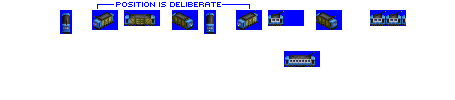
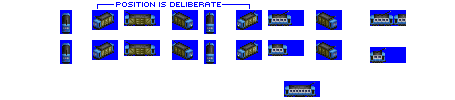
Change: WIP on pax trams

diff --git a/src/vehicles/ladycross.py b/src/vehicles/ladycross.py
@@ -12,13 +12,14 @@ consist = PaxHauler(id = 'ladycross',
 
 consist.add_unit(weight = 6,
                 capacity = 0,
-                vehicle_length = 3,
+                vehicle_length = 4,
                 effect_spawn_model = 'EFFECT_SPAWN_MODEL_STEAM',
                 effects = ['EFFECT_SPRITE_STEAM, -2, 0, 14'])
 
 consist.add_unit(weight = 6,
-                capacity = 80,
-                vehicle_length = 6)
+                capacity = 20,
+                vehicle_length = 4,
+                repeat = 3)
 
 consist.add_model_variant(intro_date=0,
                        end_date=global_constants.max_game_date,

diff --git a/src/vehicles/fairlop.py b/src/vehicles/fairlop.py
@@ -12,9 +12,13 @@ consist = PaxHauler(id = 'fairlop',
 
 consist.add_unit(weight = 12,
                 capacity = 20,
-                vehicle_length = 4,
-                effects = ['EFFECT_SPRITE_ELECTRIC, 0, 0, 12'],
-                repeat = 4)
+                vehicle_length = 6,
+                effects = ['EFFECT_SPRITE_ELECTRIC, 0, 0, 12'])
+
+consist.add_unit(weight = 12,
+                capacity = 20,
+                vehicle_length = 5,
+                repeat = 2)
 
 consist.add_model_variant(intro_date=0,
                        end_date=global_constants.max_game_date,

diff --git a/src/vehicles/newbold.py b/src/vehicles/newbold.py
@@ -12,7 +12,7 @@ consist = PaxHauler(id = 'newbold',
 
 consist.add_unit(weight = 16,
                 capacity = 80,
-                vehicle_length = 5,
+                vehicle_length = 8,
                 effects = ['EFFECT_SPRITE_ELECTRIC, 0, 0, 12'],
                 repeat = 2)
 
